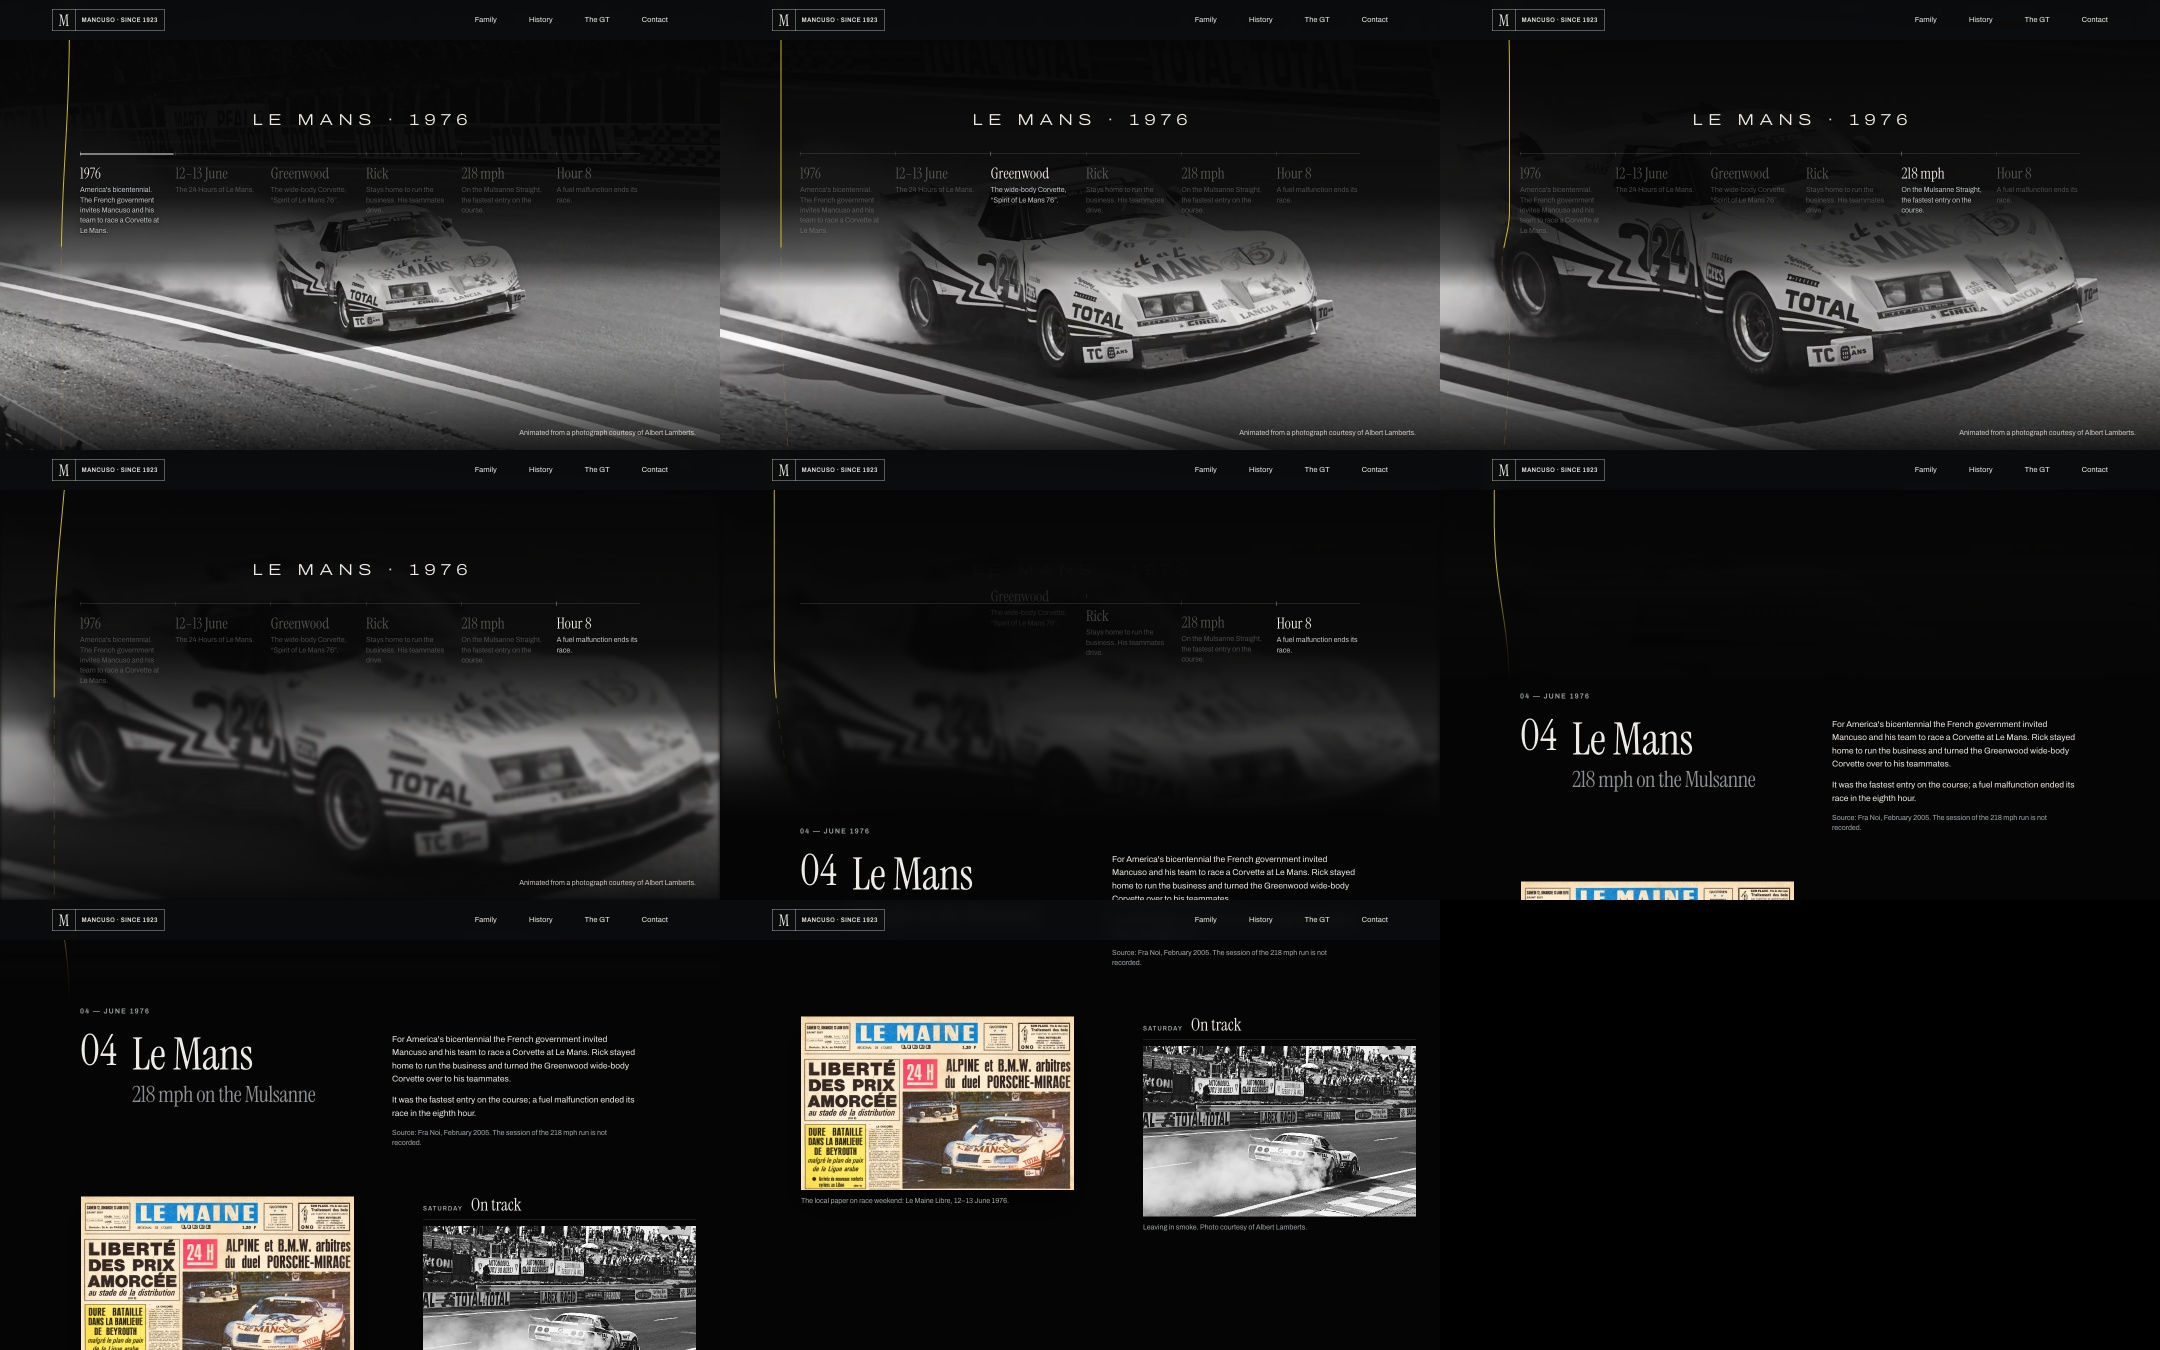
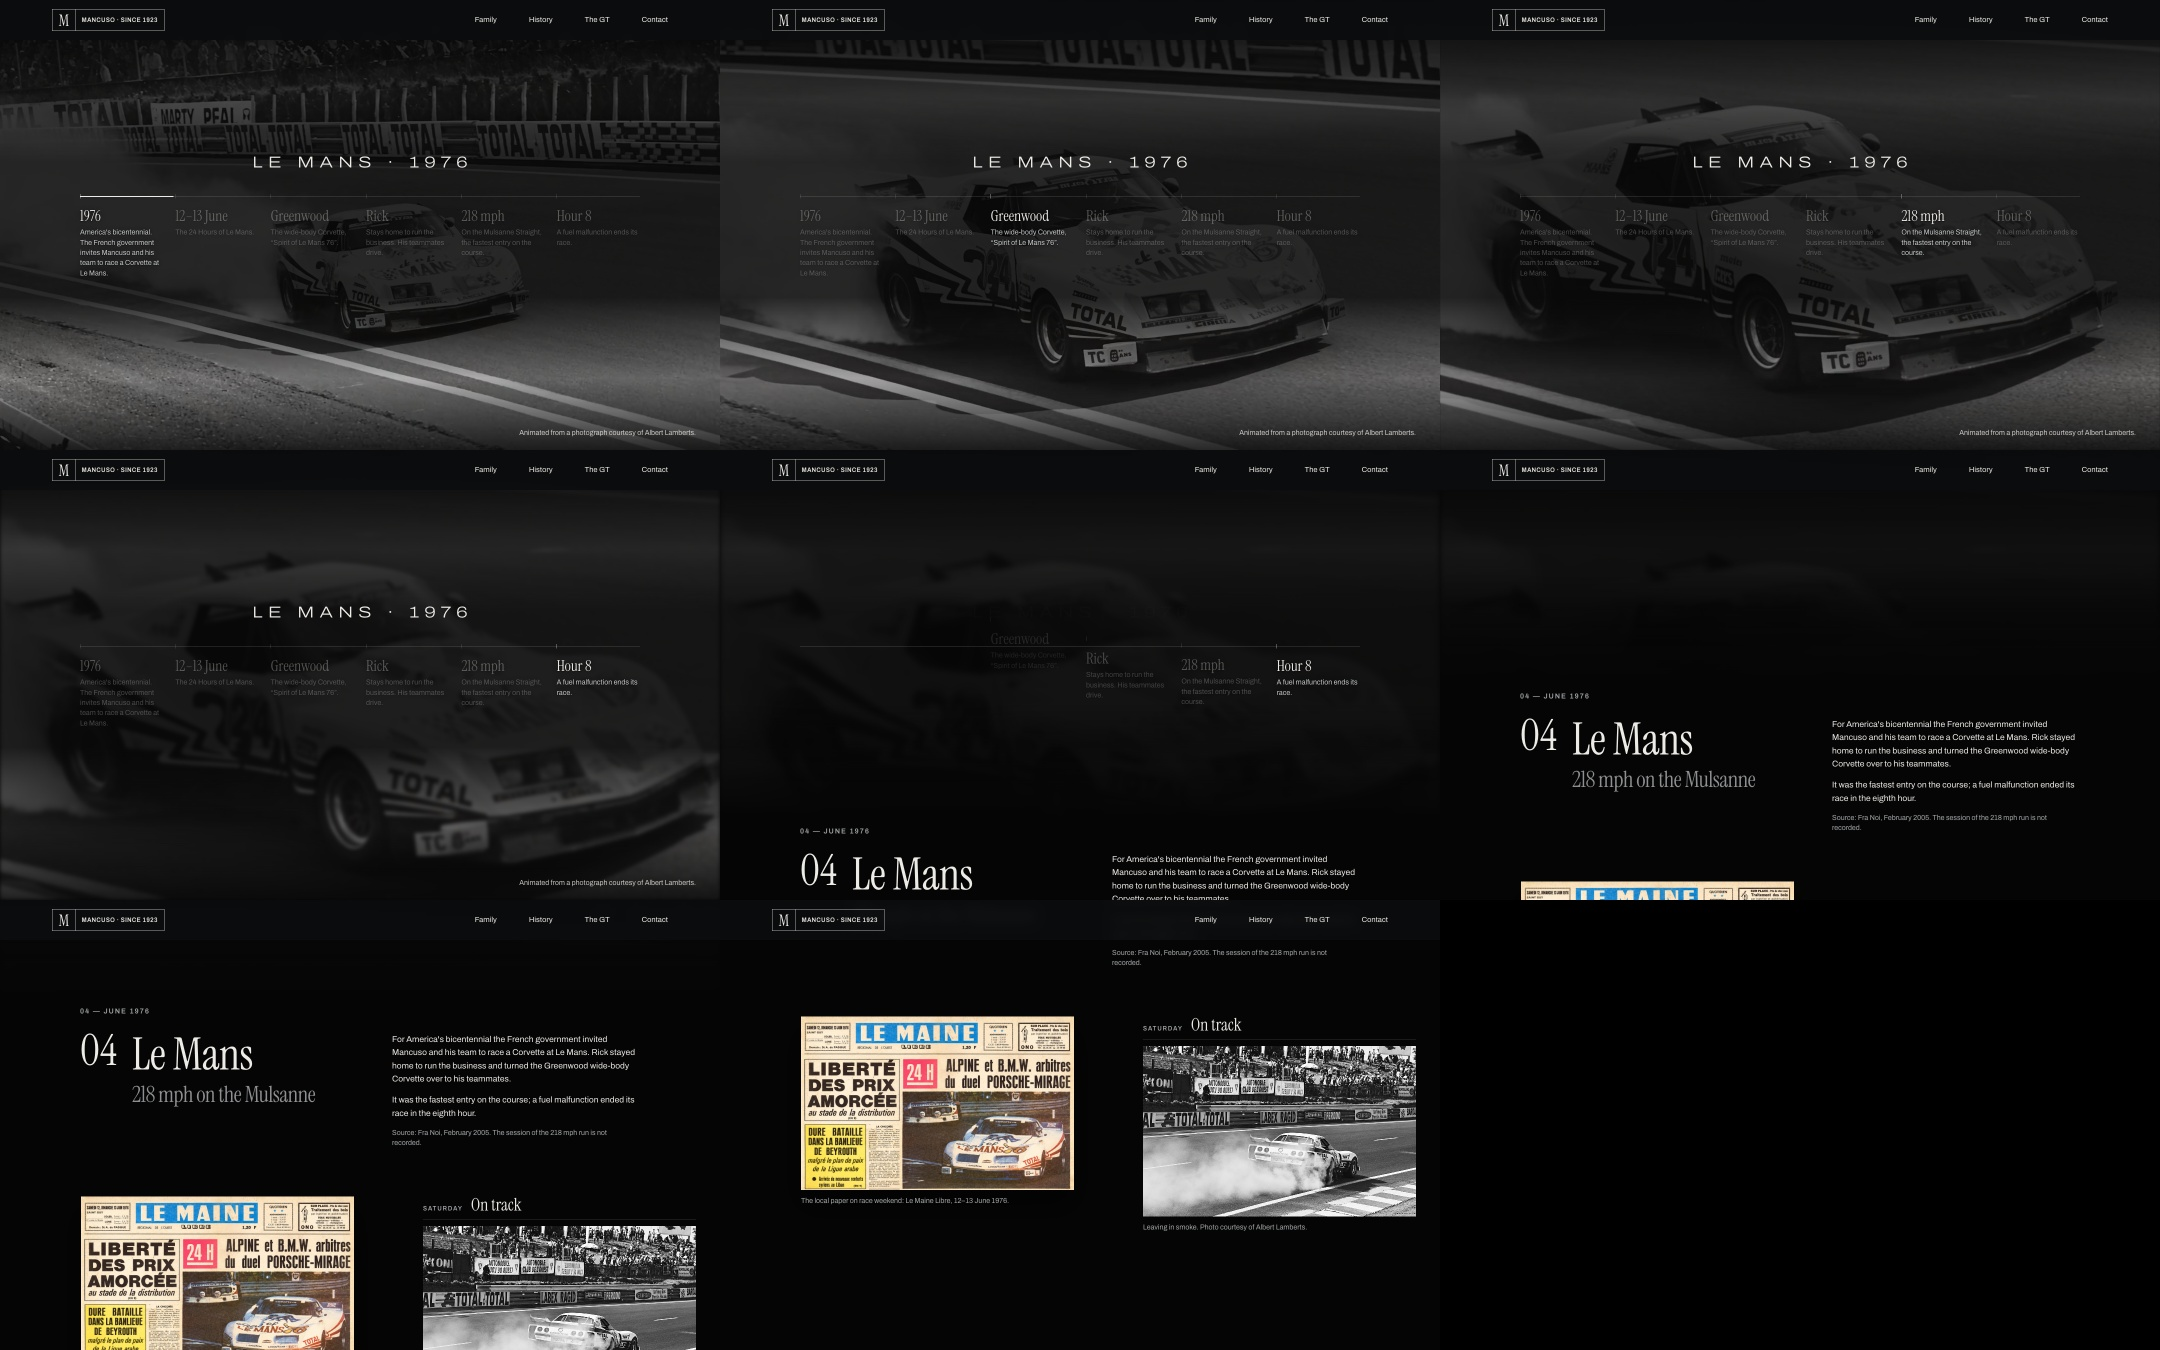
Final sketch: one stop per Le Mans fact, board centred; CSS spotlight removed from 07

diff --git a/sketches/final/styles.css b/sketches/final/styles.css
@@ -282,7 +282,7 @@ ol, ul { margin: 0; padding: 0; list-style: none; }
 .lm { display: block; padding: 0 0 var(--s-9); background: #050505; }
 .lm .tick { display: none; }
 .lm__title {
-  position: absolute; z-index: 2; top: calc(80px + 15vh); left: 0; right: 0;
+  position: absolute; z-index: 2; top: calc(50% - 150px); left: 0; right: 0;
   text-align: center; font-size: clamp(20px, 2.2vw, 32px); font-weight: 300; font-variation-settings: "wdth" 125;
   letter-spacing: .32em; margin-right: -.32em; text-transform: uppercase; color: var(--ink);
 }
@@ -290,18 +290,19 @@ ol, ul { margin: 0; padding: 0; list-style: none; }
 .lm__photo { position: absolute; inset: 0; }
 .lm__photo img, .lm__photo video { display: block; width: 100%; height: 100%; object-fit: cover; object-position: 50% 60%; }
 .lm__photo::after { content: ""; position: absolute; inset: 0; pointer-events: none;
-  background: linear-gradient(180deg, #050505 0%, rgba(5,5,5,.92) 44%, rgba(5,5,5,.6) 58%, rgba(5,5,5,.12) 64%, rgba(5,5,5,0) 78%, rgba(5,5,5,.85) 100%); }
+  background: linear-gradient(180deg, #050505 0%, rgba(5,5,5,.7) 22%, rgba(5,5,5,.86) 36%, rgba(5,5,5,.86) 66%, rgba(5,5,5,.3) 84%, rgba(5,5,5,.85) 100%); }
 .lm__credit { position: absolute; z-index: 2; right: var(--gutter); bottom: var(--s-5); color: rgba(237,235,230,.82); }
 .facts {
   /* a timing board: six facts on one rule under the title; the marker runs along it with the film */
   position: absolute; z-index: 2; left: calc(var(--gutter) + var(--col)); right: calc(var(--gutter) + var(--col));
-  top: calc(80px + 15vh + 92px); display: grid; grid-template-columns: repeat(6, 1fr); column-gap: var(--s-5);
+  top: calc(50% - 58px); display: grid; grid-template-columns: repeat(6, 1fr); column-gap: var(--s-5);
   border-top: 1px solid rgba(237,235,230,calc(.22 * var(--rule, 1))); padding-top: var(--s-5);
 }
 .facts::after { content: ""; position: absolute; left: 0; top: -1px; width: calc(100% / 6); height: 2px; background: var(--ink);
-  transform: translateX(calc(var(--p, 0) * 500%)); opacity: var(--rule, 1); transition: transform .5s var(--ease-out); }
+  transform: translateX(calc(var(--p, 0) * 500%)); opacity: var(--rule, 1); transition: transform .35s var(--ease-out); }
 .fact { position: relative; transition: opacity .5s var(--ease-out); }
-@media (min-width: 1000px) { .js .fact { opacity: .32; } .js .fact.is-on { opacity: 1; } }
+.fact { --out: 1; }
+@media (min-width: 1000px) { .js .fact { opacity: calc(.32 * var(--out)); } .js .fact.is-on { opacity: var(--out); } }
 .fact__line { position: absolute; left: 0; top: calc(-1 * var(--s-5) - 5px); width: 1px; height: 9px; background: rgba(237,235,230,.6); }
 .fact p { font-size: 14px; line-height: 1.45; color: #c9cbcd; text-shadow: 0 1px 2px rgba(0,0,0,.9), 0 0 16px rgba(0,0,0,.8); max-width: 22ch; }
 .fact b { display: block; margin-bottom: var(--s-2); font-family: var(--serif); font-size: clamp(24px, 2.1vw, 34px); line-height: 1; font-weight: 400; color: var(--ink); }
@@ -365,14 +366,6 @@ h2.bleed__title { font-weight: 400; }
   display: grid; grid-template-rows: auto 1fr auto; justify-items: center; text-align: center; padding: var(--s-10) var(--gutter) var(--s-9); }
 .gt__stage { position: absolute; left: 50%; top: 50%; width: max(100%, 177.78vh); aspect-ratio: 16 / 9; transform: translate(-50%, -48%); }
 .gt__stage img { width: 100%; height: 100%; max-width: none; }
-.gt__light {
-  /* one overhead spotlight, in the picture's own coordinates: a cone from above onto the cover, and its pool on the floor */
-  position: absolute; inset: 0; pointer-events: none; mix-blend-mode: screen;
-  background:
-    radial-gradient(26% 7% at 50% 66%, rgba(255,250,240,.34), rgba(255,250,240,0) 72%),
-    conic-gradient(from 180deg at 50% -2%, transparent 0deg, transparent 168deg, rgba(255,250,240,.14) 174deg, rgba(255,250,240,.26) 180deg, rgba(255,250,240,.14) 186deg, transparent 192deg, transparent 360deg);
-  -webkit-mask-image: linear-gradient(180deg, #000 0%, #000 64%, transparent 80%); mask-image: linear-gradient(180deg, #000 0%, #000 64%, transparent 80%);
-}
 .gt__top, .gt__bottom { position: relative; z-index: 1; display: grid; justify-items: center; gap: var(--s-5); }
 .gt__bottom { grid-row: 3; gap: var(--s-5); }
 .gt__title { font-family: var(--serif); font-weight: 400; font-size: clamp(64px, 9vw, 148px); line-height: .92; letter-spacing: -.01em; }

diff --git a/sketches/final/motion.js b/sketches/final/motion.js
@@ -110,6 +110,19 @@
     setFact(0);
     const lm = gsap.timeline({ scrollTrigger: { trigger: '[data-lm-scene]', start: 'top top', end: '+=320%', scrub: 0.6,
       onUpdate: (st) => setFact(Math.min(.999, st.progress / 0.9)) } });
+
+    /* a stop on every fact: when the wheel rests inside the board, the page settles on the nearest fact */
+    const lmST = lm.scrollTrigger; let settle = 0;
+    lenis.on('scroll', ({ scroll, velocity }) => {
+      clearTimeout(settle);
+      if (scroll <= lmST.start || scroll >= lmST.start + (lmST.end - lmST.start) * 0.9) return;
+      settle = setTimeout(() => {
+        const span = (lmST.end - lmST.start) * 0.9, n = facts.length;
+        const i = Math.max(0, Math.min(n - 1, Math.round(((lenis.scroll - lmST.start) / span) * n - 0.5)));
+        const target = lmST.start + span * (i + 0.5) / n;
+        if (Math.abs(target - lenis.scroll) > 4) lenis.scrollTo(target, { duration: 0.7, easing: (t) => 1 - Math.pow(1 - t, 3) });
+      }, 160);
+    });
     lm.to(lmScrub, { t: 1, ease: 'none', duration: 1.2 }, 0)
       /* as the camera closes in, the film softens and dims so the facts stay readable */
       .fromTo('[data-lm-video]', { filter: 'blur(0px) brightness(1)' }, { filter: 'blur(6px) brightness(0.6)', ease: 'power1.in', duration: 0.7 }, 0.75);
@@ -117,7 +130,7 @@
     /* the exit: the chapter text rides over the still frame; facts and title fade softly, the frame only dims */
     gsap.timeline({ defaults: { ease: 'none' },
       scrollTrigger: { trigger: '[data-lm-text]', start: 'top bottom', end: 'top 20%', scrub: 1 } })
-      .to(qa('.fact'), { y: -90, autoAlpha: 0, stagger: 0.1, duration: 0.35, ease: 'power2.in' }, 0)
+      .to(qa('.fact'), { y: -90, '--out': 0, stagger: 0.1, duration: 0.35, ease: 'power2.in' }, 0)
       .to('.facts', { '--rule': 0, duration: 0.3 }, 0.5)
       .to('.lm__title', { autoAlpha: 0, duration: 0.5 }, 0)
       .to('.lm__photo', { opacity: 0.35, duration: 1 }, 0);
@@ -147,8 +160,6 @@
   /* the stage lights come up, then the words */
   gsap.timeline({ scrollTrigger: { trigger: '[data-gt]', start: 'top 65%', once: true } })
     .from('.gt__stage img', { autoAlpha: 0, duration: 1.8, ease: 'power2.out' }, 0)
-    /* the spotlight switches on: two short flickers, then it holds */
-    .fromTo('[data-gt-light]', { opacity: 0 }, { keyframes: [{ opacity: .7, duration: .06 }, { opacity: .1, duration: .08 }, { opacity: .9, duration: .05 }, { opacity: .3, duration: .1 }, { opacity: 1, duration: .5 }], ease: 'none' }, 0.9)
     .from('.gt__top > *, .gt__bottom > *', { autoAlpha: 0, y: 24, duration: 1, ease: 'expo.out', stagger: 0.12 }, 0.5);
 
   /* fonts and images change heights: keep the triggers honest */

diff --git a/sketches/final/index.html b/sketches/final/index.html
@@ -12,7 +12,7 @@
 <link rel="stylesheet" href="https://unpkg.com/lenis@1.3.26/dist/lenis.css">
 <link rel="preload" as="image" href="../../assets/img/hero-lemans-1976-2400.jpg" media="(min-width: 700px)">
 <link rel="preload" as="image" href="../../assets/img/hero-lemans-1976-mobile.jpg" media="(max-width: 699px)">
-<link rel="stylesheet" href="styles.css?v=40">
+<link rel="stylesheet" href="styles.css?v=43">
 <script>document.documentElement.classList.add('js');</script>
 </head>
 <body>
@@ -326,7 +326,6 @@ The car stays under its cover: no photograph of the GT has been released. -->
   <div class="gt__stage">
   <img src="../../assets/img/final/gt-covered.jpg?v=2" width="1920" height="1080" loading="lazy"
        alt="A car shape under a black cover on an empty, dark stage, two spotlights from above.">
-    <span class="gt__light" aria-hidden="true" data-gt-light></span>
   </div>
   <div class="gt__top">
     <h2 id="h-gt" class="gt__title" data-gt-title>The GT.<span class="gt__sub">A tribute to the Chevrolet Corvette</span></h2>
@@ -351,6 +350,6 @@ The car stays under its cover: no photograph of the GT has been released. -->
 <script src="https://cdnjs.cloudflare.com/ajax/libs/gsap/3.15.0/gsap.min.js"></script>
 <script src="https://cdnjs.cloudflare.com/ajax/libs/gsap/3.15.0/ScrollTrigger.min.js"></script>
 <script src="https://unpkg.com/lenis@1.3.26/dist/lenis.min.js"></script>
-<script src="motion.js?v=22"></script>
+<script src="motion.js?v=25"></script>
 </body>
 </html>
